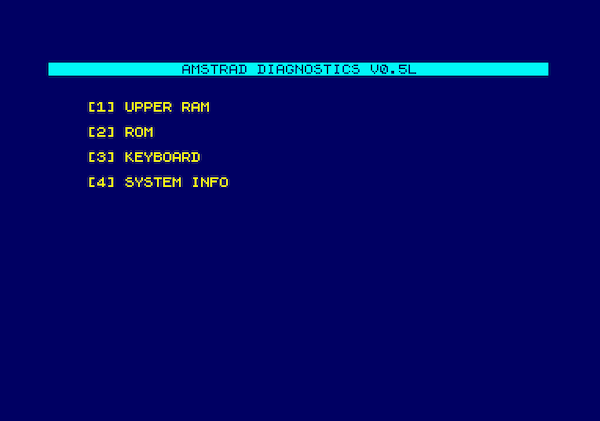
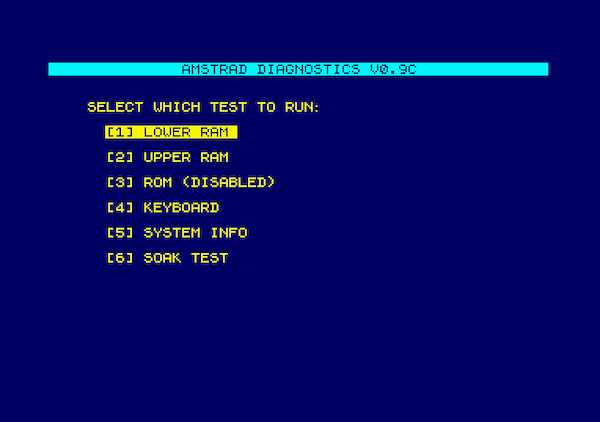
Updated screenshots

diff --git a/README.md b/README.md
@@ -1,14 +1,14 @@
 # amstrad-diagnostics
 A suite of diagnostic tests for the Amstrad CPC, Amstrad Plus and Amstrad GX4000.
 
-It performs several diagnostics:
+It performs several diagnostic tests:
 * Lower 64KB RAM
 * Upper RAM
 * System ROMs
-* Keyboard 
+* Keyboard
 * Detect CRTC model
 
-![image](/images/LowRAMTest.gif)
+![image](/images/MainMenu.png)
 
 [Check the Wiki for details](https://github.com/llopis/amstrad-diagnostics/wiki)
 
